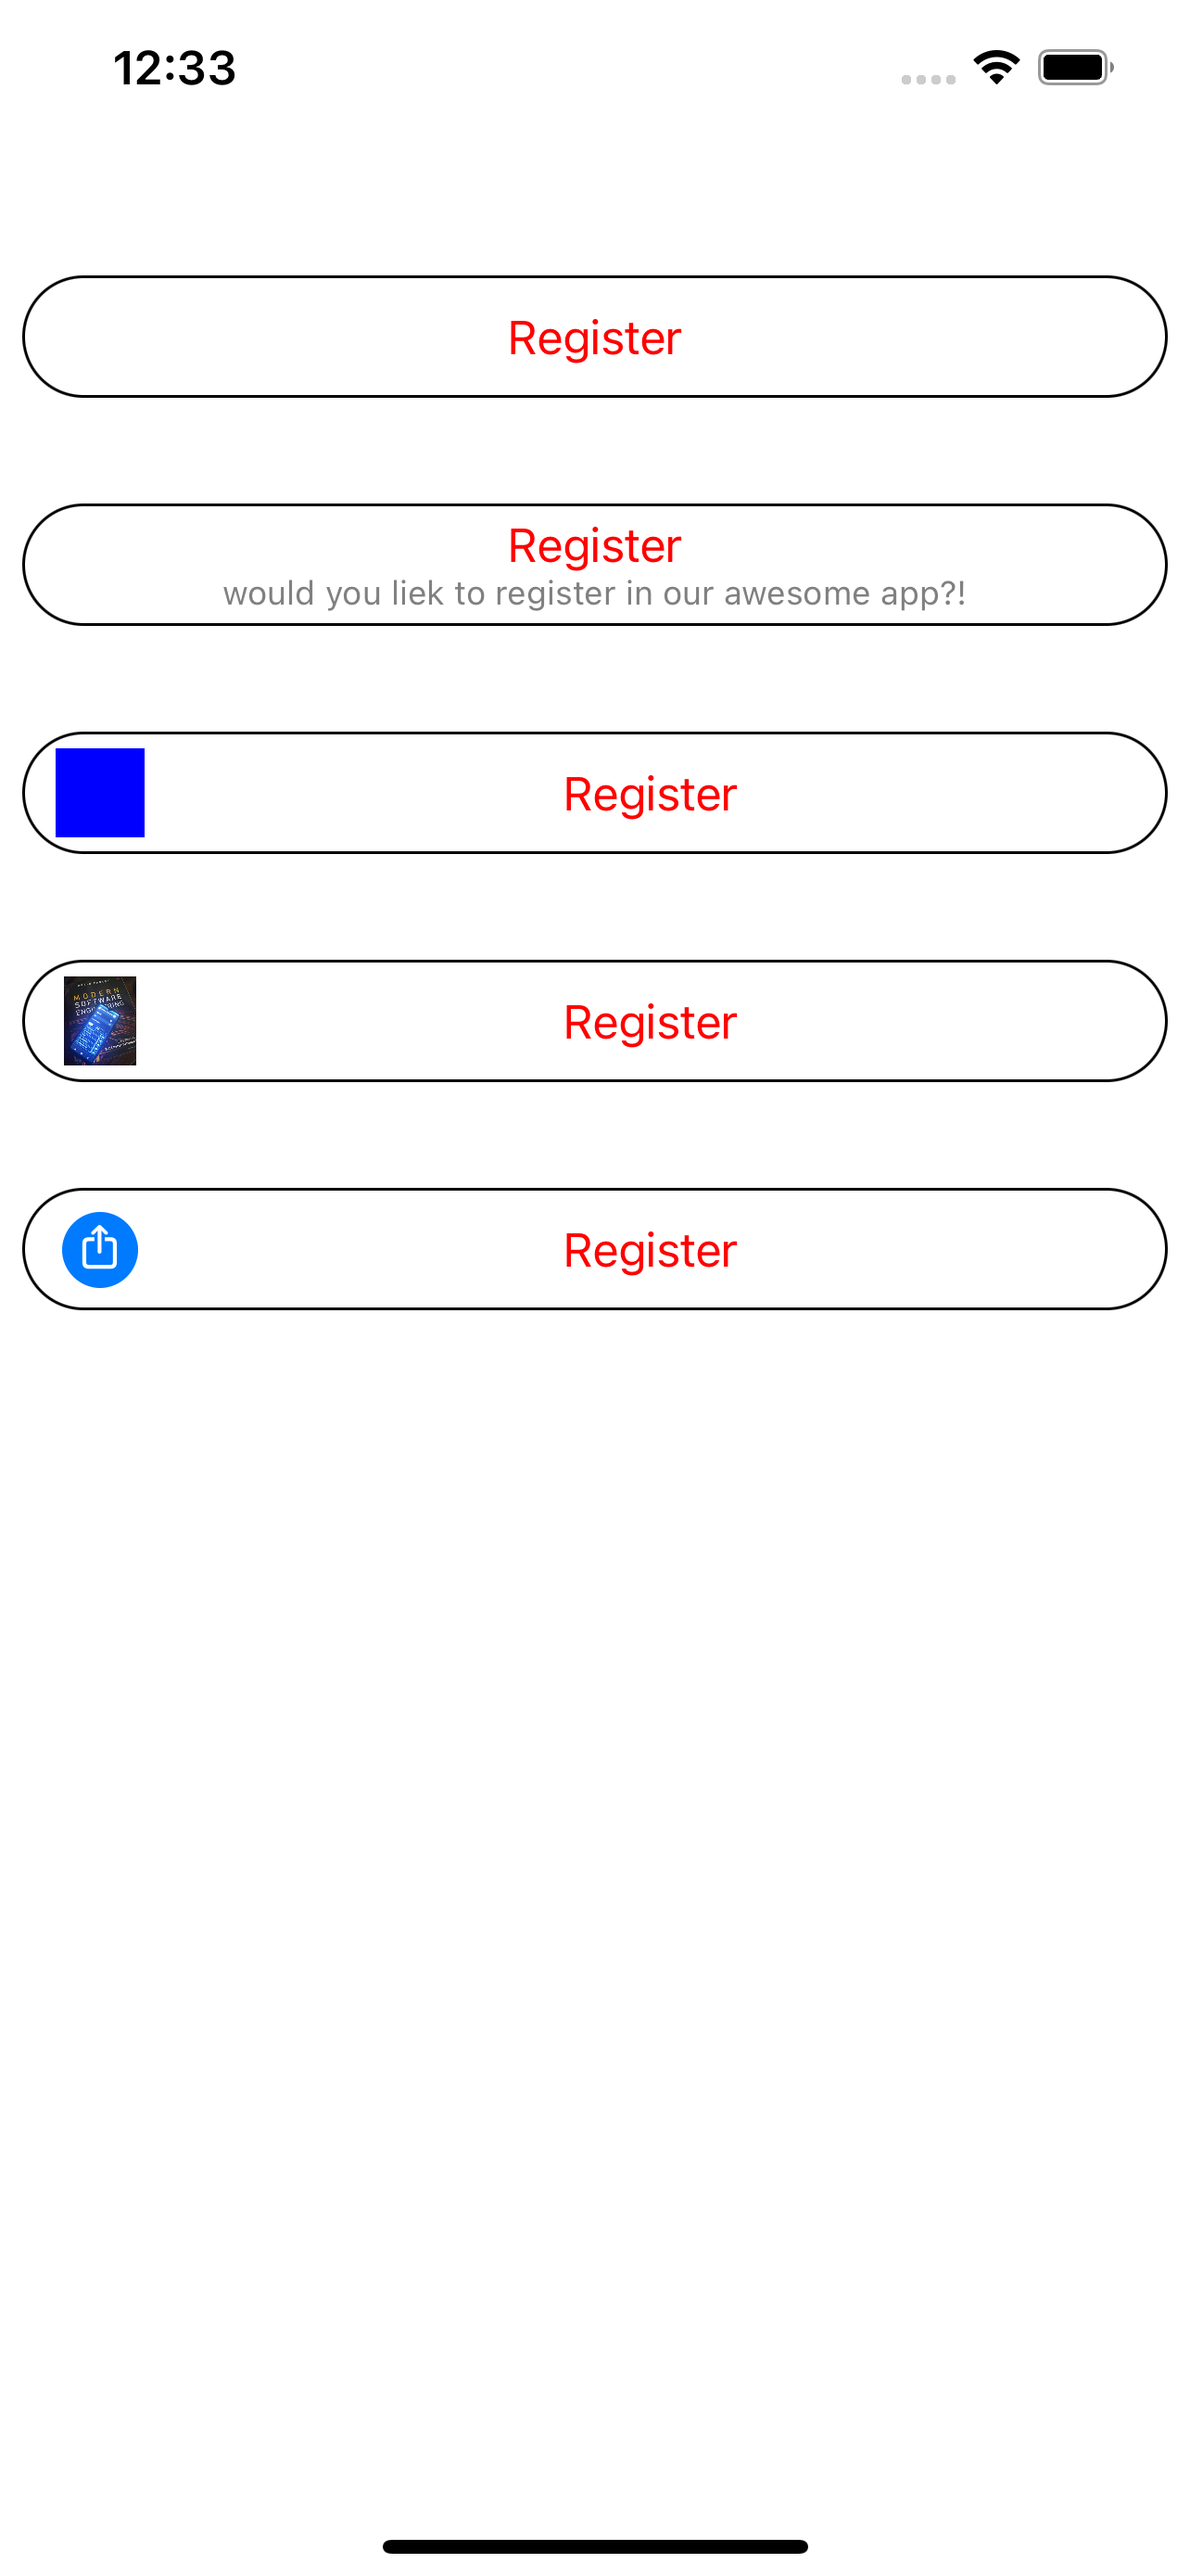
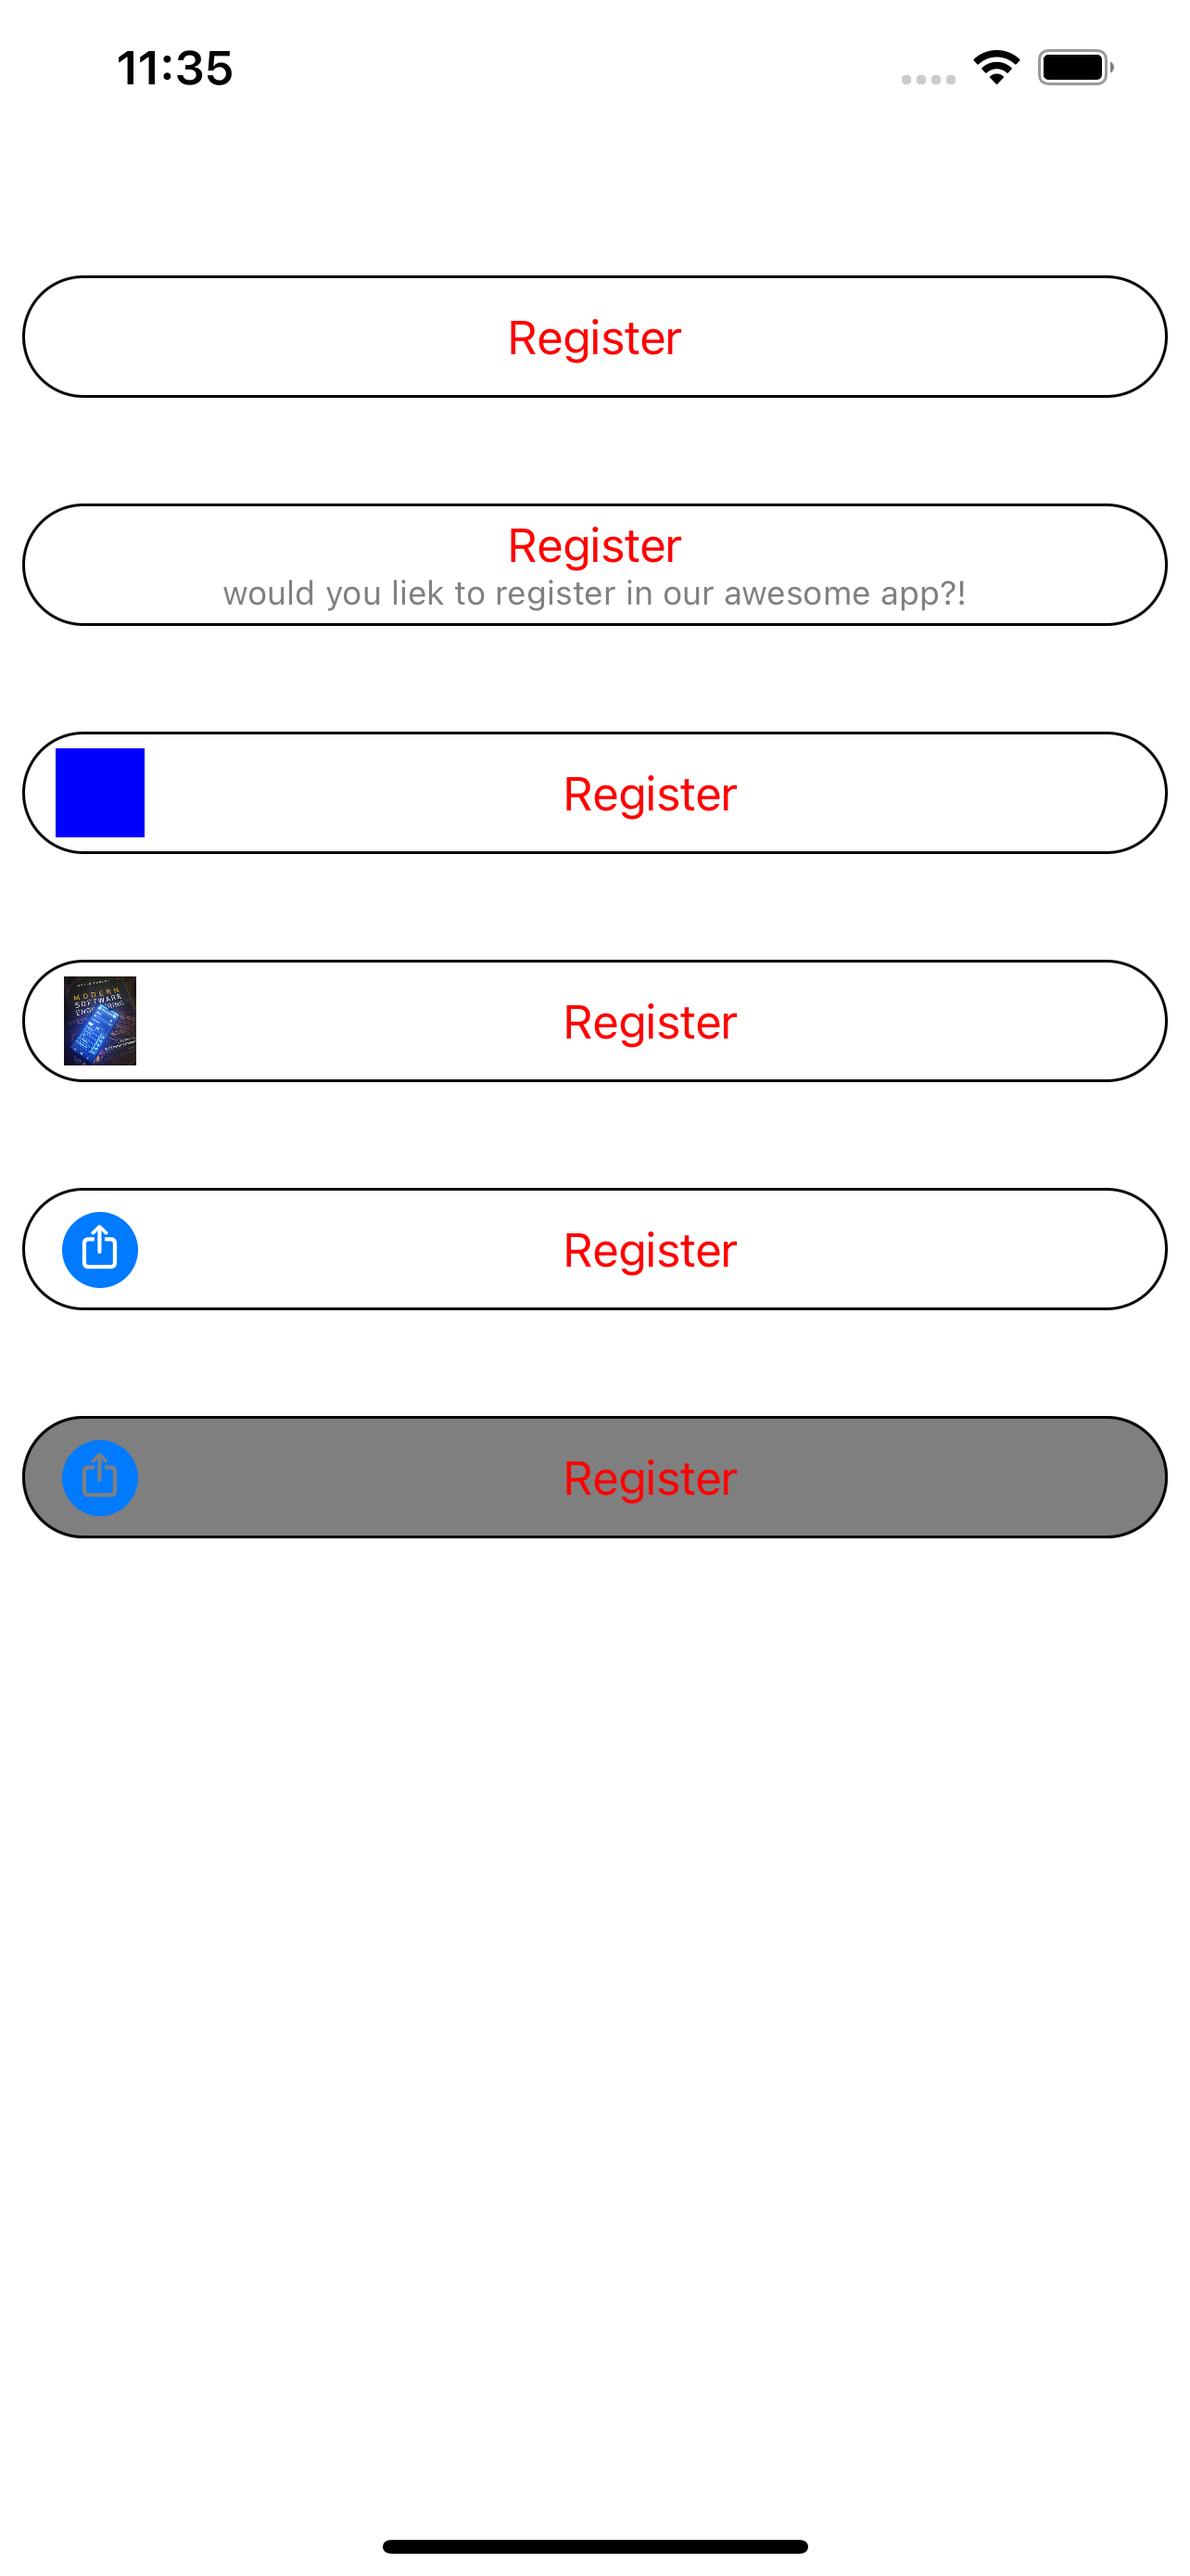
enable/disable button added + screenshot

Changed region(s): [[0.0, 0.5263, 0.9969, 0.6192], [0.0935, 0.0, 0.1869, 0.031]]

diff --git a/Example/Example/ViewController.swift b/Example/Example/ViewController.swift
@@ -11,31 +11,44 @@ import CustomButton
 class ViewController: UIViewController {
 
   lazy var testButton: CustomButton = {
-    let button = CustomButton(title: "Register", titleFontSize: 17, action: handleRegister)
+    let button = CustomButton(title: "Register", titleFontSize: 17)
+    button.action = handleRegister
     button.translatesAutoresizingMaskIntoConstraints = false
     return button
   }()
 
   lazy var testButton2: CustomButton = {
-    let button = CustomButton(title: "Register", subtitle: "would you liek to register in our awesome app?!", icon: nil, titleFontSize: 17, subtitleFontSize: 12, imageOptions: .none, action: handleRegister)
+    let button = CustomButton(title: "Register", subtitle: "would you like to register in our awesome app?!", icon: nil, titleFontSize: 17, subtitleFontSize: 12, imageOptions: .none)
+    button.action = handleRegister
     button.translatesAutoresizingMaskIntoConstraints = false
     return button
   }()
 
   lazy var testButton3: CustomButton = {
-    let button = CustomButton(title: "Register", subtitle: nil, icon: "something that doesn't exist.", titleFontSize: 17, subtitleFontSize: nil, imageOptions: .none, action: handleRegister)
+    let button = CustomButton(title: "Register", subtitle: nil, icon: "something that doesn't exist.", titleFontSize: 17, subtitleFontSize: nil, imageOptions: .none)
+    button.action = handleRegister
     button.translatesAutoresizingMaskIntoConstraints = false
     return button
   }()
 
   lazy var testButton4: CustomButton = {
-    let button = CustomButton(title: "Register", subtitle: nil, icon: "ss", titleFontSize: 17, subtitleFontSize: nil, imageOptions: .assetImage, action: handleRegister)
+    let button = CustomButton(title: "Register", subtitle: nil, icon: "ss", titleFontSize: 17, subtitleFontSize: nil, imageOptions: .assetImage)
+    button.action = handleRegister
     button.translatesAutoresizingMaskIntoConstraints = false
     return button
   }()
 
   lazy var testButton5: CustomButton = {
-    let button = CustomButton(title: "Register", subtitle: nil, icon: "square.and.arrow.up.circle.fill", titleFontSize: 17, subtitleFontSize: nil, imageOptions: .sfSymbol, action: handleRegister)
+    let button = CustomButton(title: "Register", subtitle: nil, icon: "square.and.arrow.up.circle.fill", titleFontSize: 17, subtitleFontSize: nil, imageOptions: .sfSymbol)
+    button.action = handleRegister
+    button.translatesAutoresizingMaskIntoConstraints = false
+    return button
+  }()
+
+  lazy var testButton6: CustomButton = {
+    let button = CustomButton(title: "Register", subtitle: nil, icon: "square.and.arrow.up.circle.fill", titleFontSize: 17, subtitleFontSize: nil, imageOptions: .sfSymbol)
+    button.action = handleRegister
+    button.isEnabled = false
     button.translatesAutoresizingMaskIntoConstraints = false
     return button
   }()
@@ -50,6 +63,7 @@ class ViewController: UIViewController {
     view.addSubview(testButton3)
     view.addSubview(testButton4)
     view.addSubview(testButton5)
+    view.addSubview(testButton6)
     setupConstraints()
   }
 
@@ -79,6 +93,11 @@ class ViewController: UIViewController {
       testButton5.trailingAnchor.constraint(equalTo: view.safeAreaLayoutGuide.trailingAnchor, constant: -8),
       testButton5.topAnchor.constraint(equalTo: testButton4.bottomAnchor, constant: 38),
       testButton5.heightAnchor.constraint(equalToConstant: 44),
+
+      testButton6.leadingAnchor.constraint(equalTo: view.safeAreaLayoutGuide.leadingAnchor, constant: 8),
+      testButton6.trailingAnchor.constraint(equalTo: view.safeAreaLayoutGuide.trailingAnchor, constant: -8),
+      testButton6.topAnchor.constraint(equalTo: testButton5.bottomAnchor, constant: 38),
+      testButton6.heightAnchor.constraint(equalToConstant: 44),
       ])
   }
 

diff --git a/README.md b/README.md
@@ -1,18 +1,18 @@
 # CustomButton
 
-Here is a smaple of when you just have `title`
+Here is a sample of when you just have `title`
 ![alt text](./Assets/01.png)
 
-Here is a smaple of when you have `title` and `subtitle`
+Here is a sample of when you have `title` and `subtitle`
 ![alt text](./Assets/02.png)
 
-Here is a smaple of when you have `title`, no `subtitle`, for the `icon` you have netered something that doesn't exist. an UIImage will be generated and shown as the square blue in the following screenshot.
+Here is a sample of when you have `title`, no `subtitle`, for the `icon` you have entered something that doesn't exist. an UIImage will be generated and shown as the square blue in the following screenshot.
 ![alt text](./Assets/03.png)
 
-Here is a smaple of when you have `title`, no `subtitle`, for the `icon` you have entered the name of an image in asset catalog. 
+Here is a sample of when you have `title`, no `subtitle`, for the `icon` you have entered the name of an image in asset catalog. 
 ![alt text](./Assets/04.png)
 
-Here is a smaple of when you have `title`, no `subtitle`, for the `icon` you have entered the name of an SF Symbol. the one shown here is `square.and.arrow.up.circle.fill`. 
+Here is a sample of when you have `title`, no `subtitle`, for the `icon` you have entered the name of an SF Symbol. the one shown here is `square.and.arrow.up.circle.fill`. 
 ![alt text](./Assets/05.png)
 
 a screenshot of it on iPhone 13 simulator.
